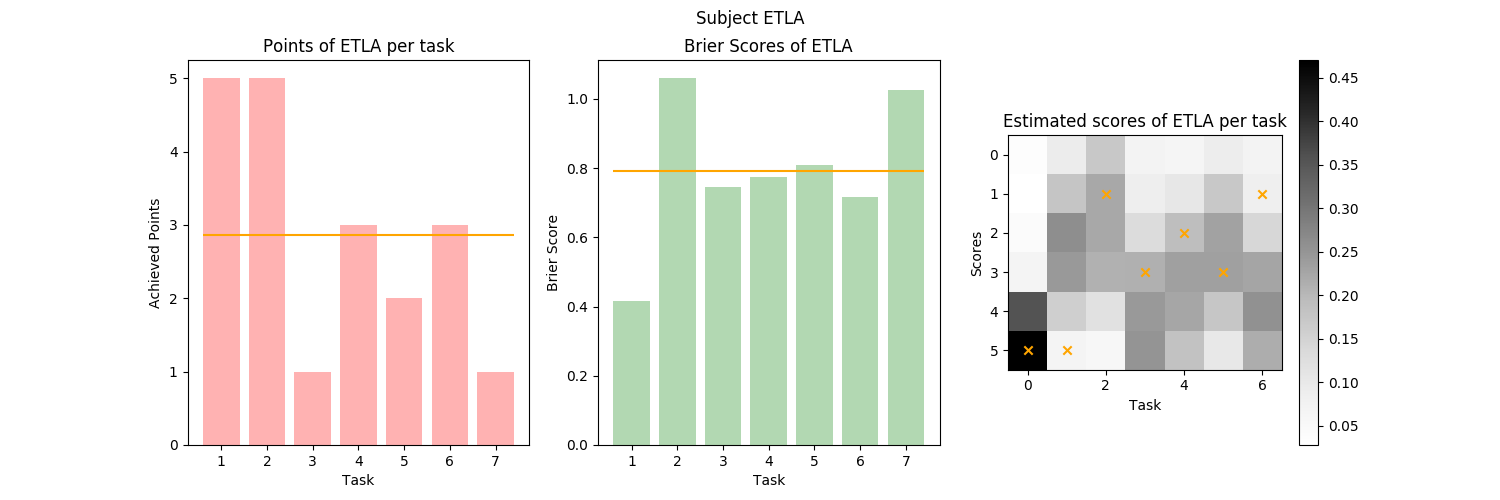
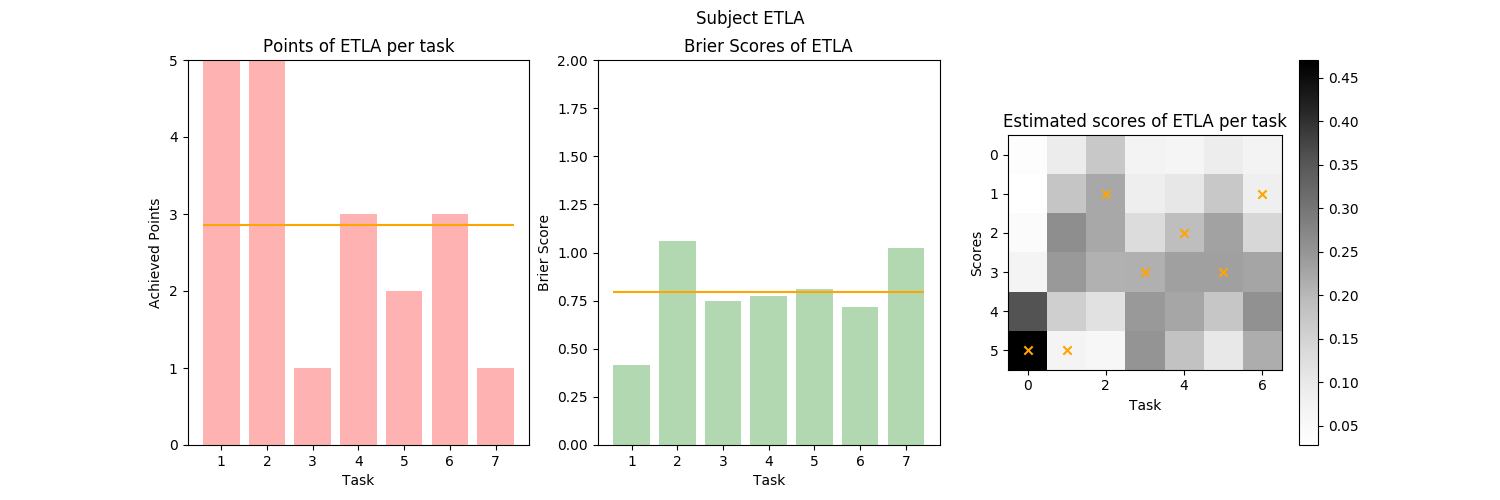
Updating evaluation files and restructuring code

diff --git a/src/average_and_individual_evaluation.py b/src/average_and_individual_evaluation.py
@@ -8,61 +8,26 @@
     Per default by calling this script, plot_vpn() is evaluated on all available subjects in the subject folder,
     and bar plots of the averages for the task and brier scores are created and saved.
 """
-from collections import OrderedDict
-import os
 import sys
 import numpy as np
-import pandas as pd
 import matplotlib.pyplot as plt
 import src.utils
+from src.data_reader import read_csv_files
+
 
 __author__ = 'Yannik Frisch'
 __date__ = '08-03-2020'
 
+
 # Set working directory to the top level of our project
 src.utils.set_working_directory()
 
+
 print("\n-------------------- EVALUATION --------------------")
 
+
 # --------------- READ DATA --------------- #
-print(f'# Reading data ... ', end='')
-sys.stdout.flush()
-subjects_folder_path = f'assets/subjects/'
-subjects = src.utils.extract_subject_codes_from_folders(subjects_folder_path)
-
-# Create plots folder if it is not there
-src.utils.create_folder(f'assets/plots/')
-
-subject_brier_scores = {}
-subject_probs = {}
-subject_task_scores = {}
-
-for subject in subjects:
-    # Read brier scores
-    path_to_csv = f'assets/subjects/subject_{subject}/' \
-                  f'analysis/{subject}_brier_scores.csv'
-    pandas_frame = pd.read_csv(path_to_csv, sep=',')
-    pandas_frame = pandas_frame.drop([7])  # Drop task 8
-    pandas_bs = pandas_frame.set_index('Unnamed: 0').T.to_dict(f'list')
-    subject_brier_scores[subject] = pandas_bs
-
-    # Read probabilites
-    path_to_csv = f'assets/subjects/subject_{subject}/' \
-                  f'analysis/{subject}_probabilities.csv'
-    pandas_frame = pd.read_csv(path_to_csv, sep=',')
-    pandas_frame = pandas_frame.drop([7, 8])  # Drop task 8 and overall pdf
-    probs = pandas_frame.set_index('Unnamed: 0').T.to_dict(f'list')
-    subject_probs[subject] = probs
-
-    # Read task scores
-    path_to_csv = f'assets/subjects/subject_{subject}/' \
-                  f'analysis/{subject}_task_scores.csv'
-    pandas_frame = pd.read_csv(path_to_csv, sep=',')
-    pandas_frame = pandas_frame.drop([7])  # Drop task 8
-    scores = pandas_frame.set_index('Unnamed: 0').T.to_dict(f'list')
-    subject_task_scores[subject] = scores
-
-print(f'Done!')
+subjects, subject_task_scores, subject_brier_scores, subject_probs, max_score = read_csv_files()
 
 
 # --------------- EVALUATE DATA --------------- #
@@ -116,6 +81,7 @@ def plot_average_task_scores():
     axs[1].set_xlabel("Subject ID")
     axs[0].set_ylabel("Average Points")
     axs[1].set_ylabel("Average Points")
+    axs[1].set_xticks(np.arange(1, len(subjects)+1))
     plt.savefig(f'assets/plots/average_task_scores.png')
     plt.close('all')
     return None
@@ -171,6 +137,7 @@ def plot_average_brier_scores():
     axs[1].set_xlabel("Subject ID")
     axs[0].set_ylabel("Avg. brier score")
     axs[1].set_ylabel("Avg. brier score")
+    axs[1].set_xticks(np.arange(1, len(subjects) + 1))
     plt.savefig(f'assets/plots/average_brier_scores.png')
     plt.close('all')
     return None
@@ -210,9 +177,12 @@ def plot_subject(subject_code):
     axs[0].set_title(f"Points of {subject_code} per task")
     axs[0].set_xlabel("Task")
     axs[0].set_ylabel("Achieved Points")
+    axs[0].set_ylim(top=5.0)
+    axs[0].set_yticks(np.arange(0, 6))
     axs[1].set_title(f"Brier Scores of {subject_code}")
     axs[1].set_xlabel("Task")
     axs[1].set_ylabel("Brier Score")
+    axs[1].set_ylim(top=2.0)
     axs[2].set_title(f"Estimated scores of {subject_code} per task")
     axs[2].set_xlabel("Task")
     axs[2].set_ylabel("Scores")
@@ -225,8 +195,9 @@ def plot_subject(subject_code):
 plot_average_task_scores()
 plot_average_brier_scores()
 
-# Create plots for every subjects
 print(f'# Creating and saving plots ... ', end='')
+
+# Create plots for every subjects
 sys.stdout.flush()
 for subject in subjects:
     plot_subject(subject)

diff --git a/src/confidence_evaluation.py b/src/confidence_evaluation.py
@@ -13,56 +13,23 @@ import matplotlib.pyplot as plt
 # TODO: Get rid of the RGBA warning...
 from matplotlib.pyplot import cm
 import src.utils
-from utils import task_expectation
+from src.utils import task_expectation
+from src.data_reader import read_csv_files
+
 
 __author__ = 'Yannik Frisch'
 __date__ = '08-03-2020'
 
+
 # Set working directory to the top level of our project
 src.utils.set_working_directory()
 
+
 print("\n-------------------- CALIBRATION EVALUATION --------------------")
 
+
 # --------------- READ DATA --------------- #
-print(f'# Reading data ... ', end='')
-sys.stdout.flush()
-subjects_folder_path = f'assets/subjects/'
-subjects = src.utils.extract_subject_codes_from_folders(subjects_folder_path)
-
-# Create plots folder if it is not there
-src.utils.create_folder(f'assets/plots/')
-
-subject_brier_scores = {}
-subject_probs = {}
-subject_task_scores = {}
-max_score = 5
-
-for subject in subjects:
-    # Read brier scores
-    path_to_csv = f'assets/subjects/subject_{subject}/' \
-                  f'analysis/{subject}_brier_scores.csv'
-    pandas_frame = pd.read_csv(path_to_csv, sep=',')
-    pandas_frame = pandas_frame.drop([7])  # Drop task 8
-    pandas_bs = pandas_frame.set_index('Unnamed: 0').T.to_dict(f'list')
-    subject_brier_scores[subject] = pandas_bs
-
-    # Read probabilites
-    path_to_csv = f'assets/subjects/subject_{subject}/' \
-                  f'analysis/{subject}_probabilities.csv'
-    pandas_frame = pd.read_csv(path_to_csv, sep=',')
-    pandas_frame = pandas_frame.drop([7, 8])
-    probs = pandas_frame.set_index('Unnamed: 0').T.to_dict(f'list')
-    subject_probs[subject] = probs
-
-    # Read task scores
-    path_to_csv = f'assets/subjects/subject_{subject}/' \
-                  f'analysis/{subject}_task_scores.csv'
-    pandas_frame = pd.read_csv(path_to_csv, sep=',')
-    pandas_frame = pandas_frame.drop([7])  # Drop task 8
-    scores = pandas_frame.set_index('Unnamed: 0').T.to_dict(f'list')
-    subject_task_scores[subject] = scores
-
-print(f'Done!')
+subjects, subject_task_scores, subject_brier_scores, subject_probs, max_score  = read_csv_files()
 
 
 # --------------- EVALUATE DATA --------------- #
@@ -157,6 +124,7 @@ def average_calibration():
 print(f'# Plotting and saving data ... ', end=f'')
 sys.stdout.flush()
 
+
 # Create plots for every subjects
 for s in subjects:
     calibration(s)
@@ -166,5 +134,6 @@ for s in subjects:
 
 average_calibration()
 plt.savefig(f'assets/plots/average_calibration.png')
+
 
 print(f'Done!')

diff --git a/src/data_reader.py b/src/data_reader.py
@@ -1,0 +1,50 @@
+import sys
+import pandas as pd
+import src.utils
+
+
+__author__ = 'Yannik Frisch'
+__date__ = '08-03-2020'
+
+
+def read_csv_files():
+    print(f'# Reading data ... ', end='')
+    sys.stdout.flush()
+    subjects_folder_path = f'assets/subjects/'
+    subjects = src.utils.extract_subject_codes_from_folders(subjects_folder_path)
+
+    # Create plots folder if it is not there
+    src.utils.create_folder(f'assets/plots/')
+
+    subject_brier_scores = {}
+    subject_probs = {}
+    subject_task_scores = {}
+    max_score = 5
+
+    for subject in subjects:
+        # Read brier scores
+        path_to_csv = f'assets/subjects/subject_{subject}/' \
+                      f'analysis/{subject}_brier_scores.csv'
+        pandas_frame = pd.read_csv(path_to_csv, sep=',')
+        pandas_frame = pandas_frame.drop([7])  # Drop task 8
+        pandas_bs = pandas_frame.set_index('Unnamed: 0').T.to_dict(f'list')
+        subject_brier_scores[subject] = pandas_bs
+
+        # Read probabilites
+        path_to_csv = f'assets/subjects/subject_{subject}/' \
+                      f'analysis/{subject}_probabilities.csv'
+        pandas_frame = pd.read_csv(path_to_csv, sep=',')
+        pandas_frame = pandas_frame.drop([7, 8])  # Drop task 8 and overall pdf
+        probs = pandas_frame.set_index('Unnamed: 0').T.to_dict(f'list')
+        subject_probs[subject] = probs
+
+        # Read task scores
+        path_to_csv = f'assets/subjects/subject_{subject}/' \
+                      f'analysis/{subject}_task_scores.csv'
+        pandas_frame = pd.read_csv(path_to_csv, sep=',')
+        pandas_frame = pandas_frame.drop([7])  # Drop task 8
+        scores = pandas_frame.set_index('Unnamed: 0').T.to_dict(f'list')
+        subject_task_scores[subject] = scores
+
+    print(f'Done!')
+    return subjects, subject_task_scores, subject_brier_scores, subject_probs, max_score

diff --git a/src/brier_vs_rating_evaluation.py b/src/brier_vs_rating_evaluation.py
@@ -1,0 +1,20 @@
+import src.utils
+from src.data_reader import read_csv_files
+
+__author__ = 'Yannik Frisch'
+__date__ = '08-03-2020'
+
+# Set working directory to the top level of our project
+src.utils.set_working_directory()
+
+
+print("\n-------------------- EVALUATION --------------------")
+
+
+# --------------- READ DATA --------------- #
+subjects, subject_task_scores, subject_brier_scores, subject_probs, max_score = read_csv_files()
+
+
+# --------------- EVALUATE DATA --------------- #
+def plot_rating_vs_brier():
+    ...

diff --git a/src/main.py b/src/main.py
@@ -15,7 +15,7 @@ we calculate the Brier score, which measures the accuracy of the subjects
 predictions.
 
 All important information is saved to the disk and is available for inspection.
-In the file 'evaluation.py' we use this data to calculate statistical measures
+In the file 'average_and_individual_evaluation.py' we use this data to calculate statistical measures
 (e.g. mean and standard deviation) and create plots.
 """
 
